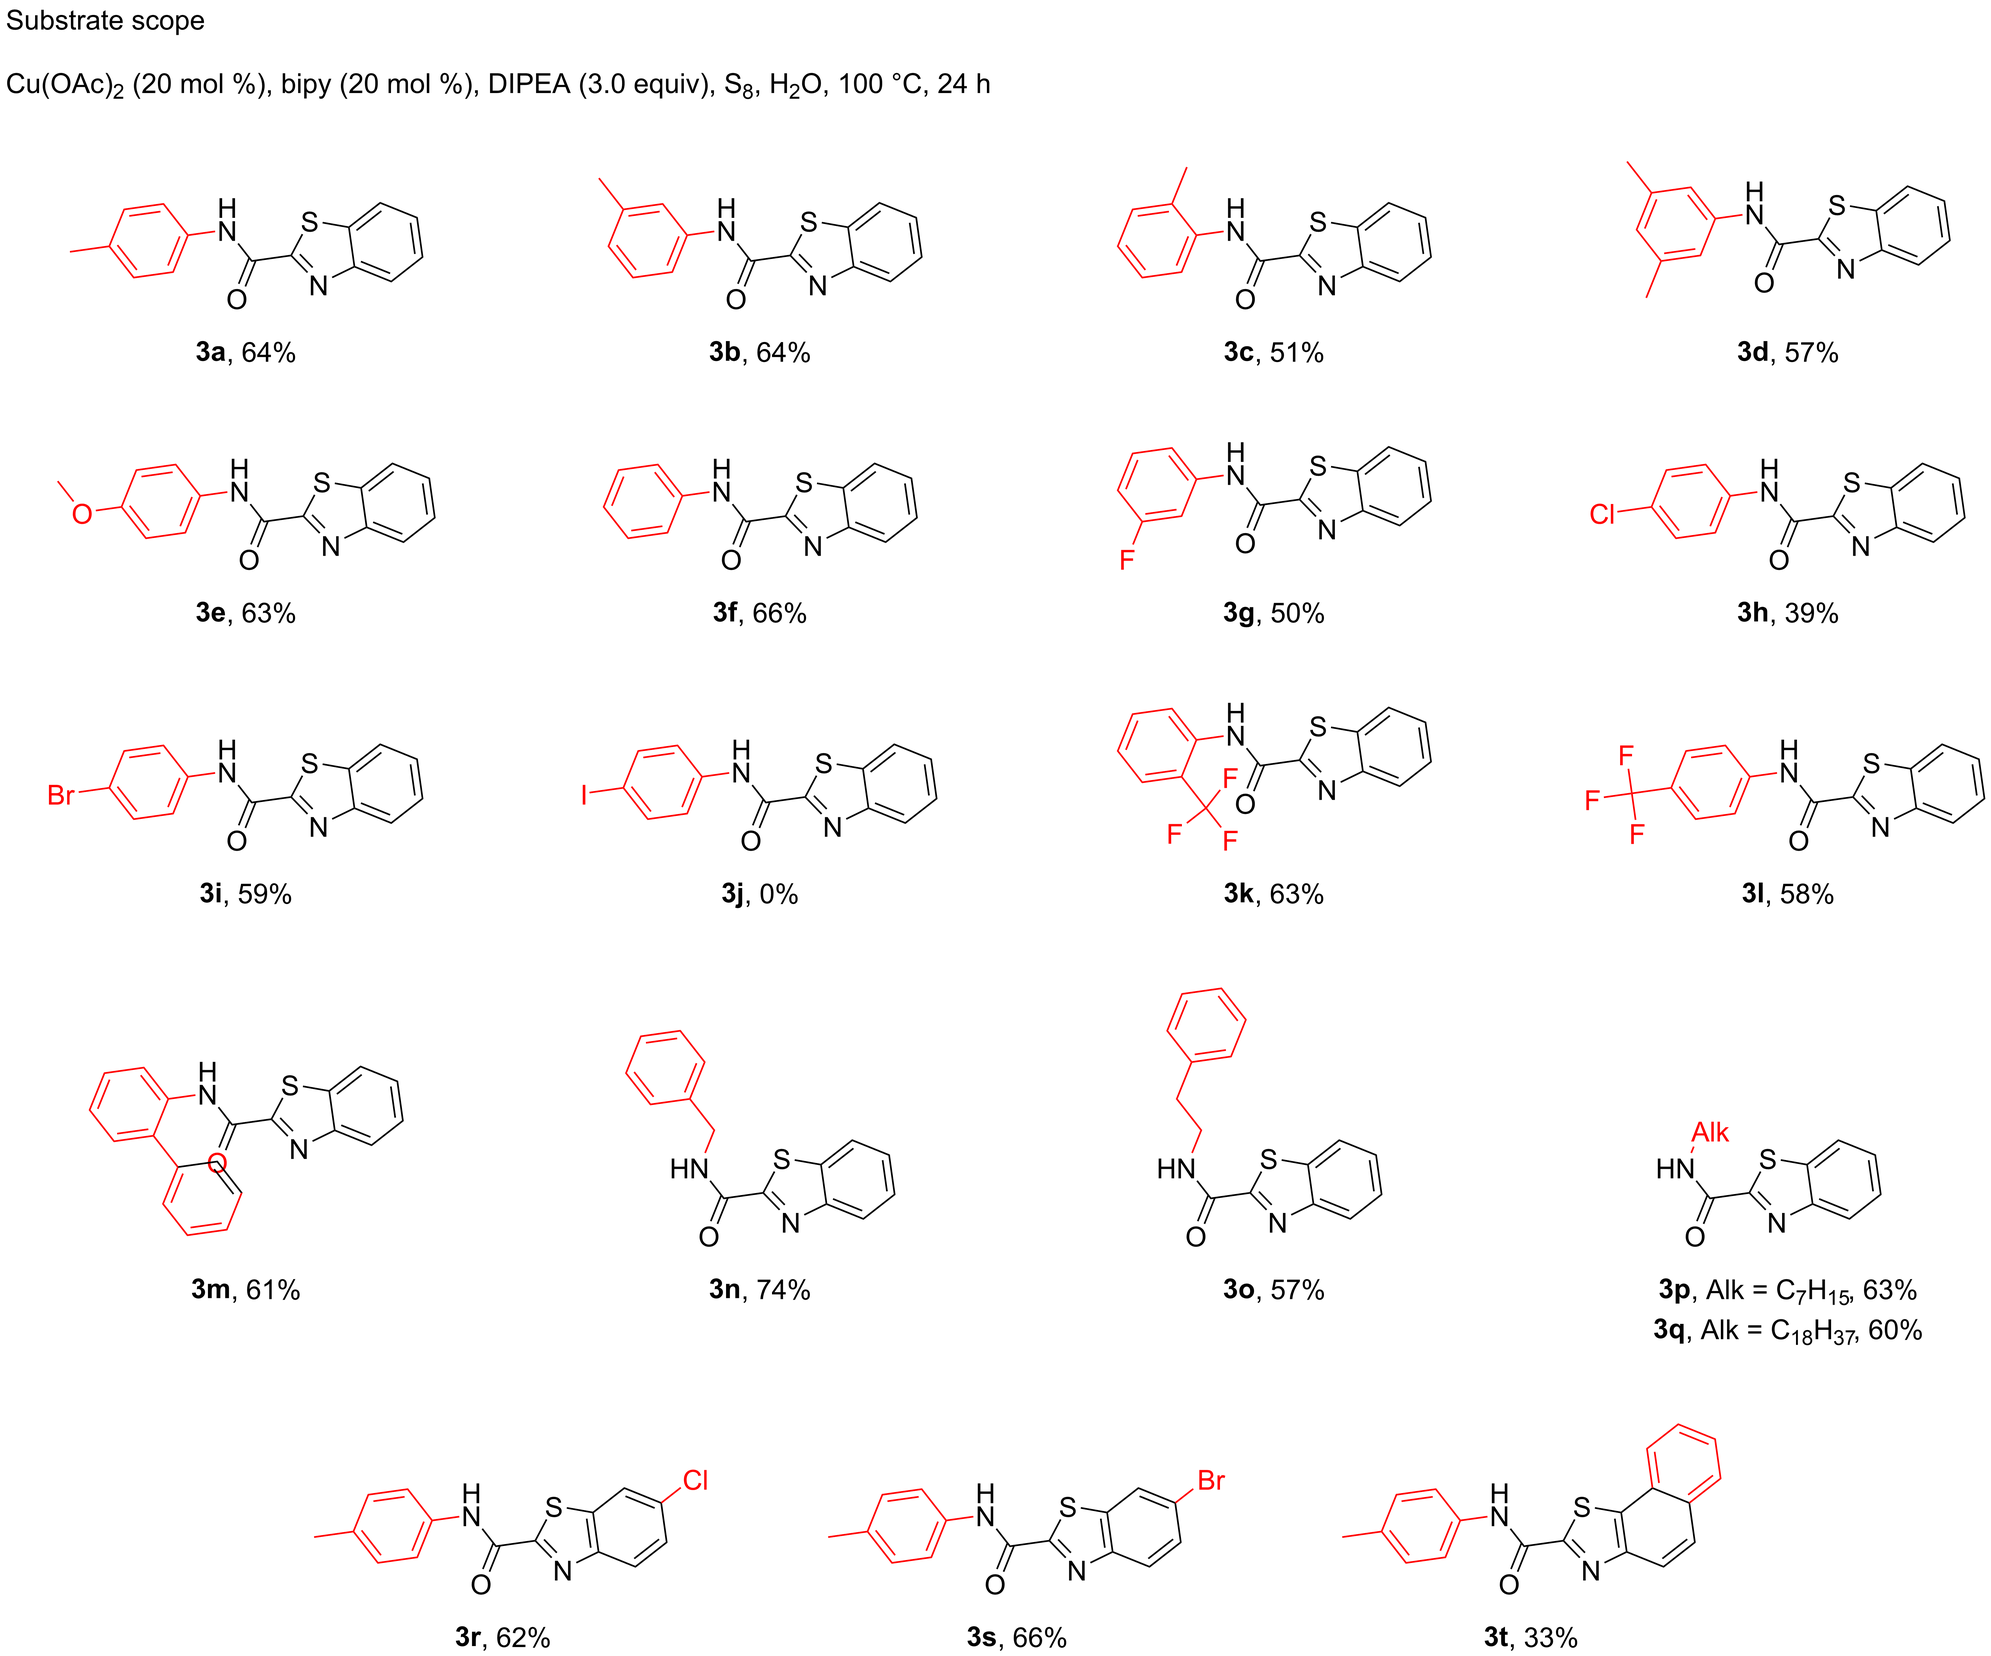
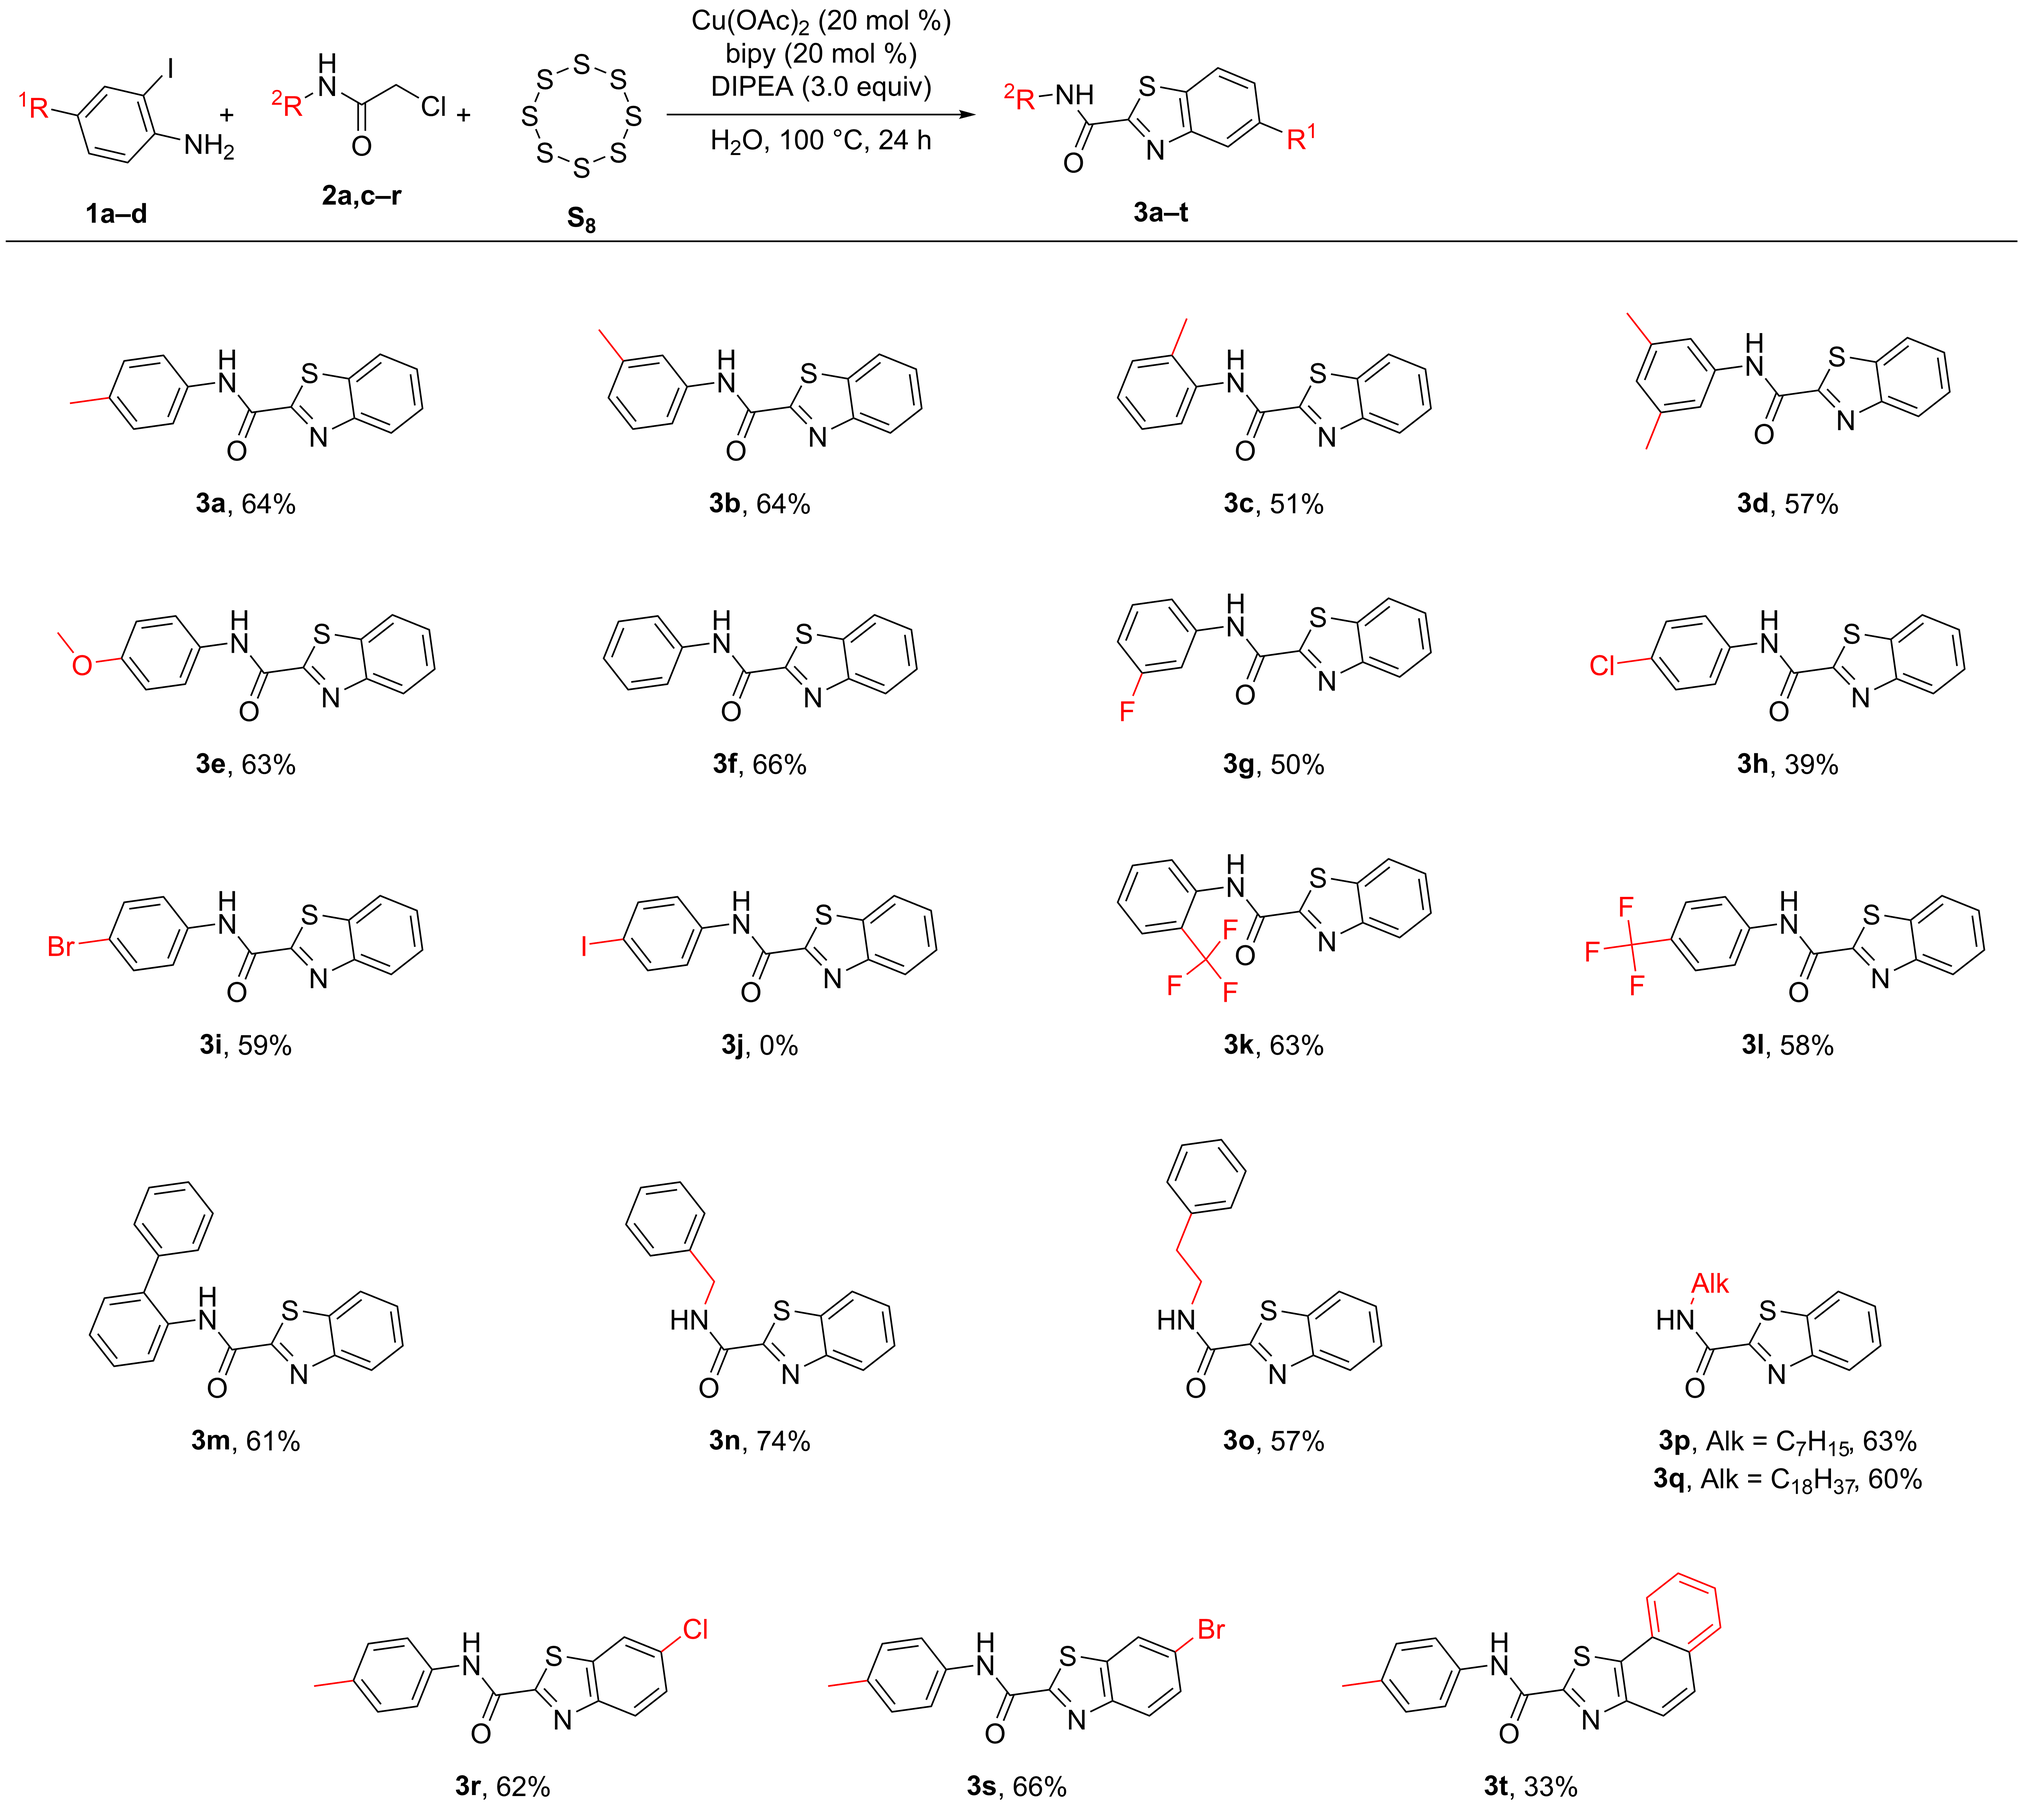
feat(parity): the general scheme in the four-column table names all three reactants
The header carried only the two organic substrates and mentioned S8 in the arrow's condition text.
In the source figure sulfur is a third reactant (6 equiv), drawn with a + of its own, so the brief
now lists it as one and the condition line keeps only DIPEA.

One page, four columns, unchanged.

diff --git a/add_s8.py b/add_s8.py
@@ -1,0 +1,11 @@
+import io,sys,json
+sys.stdout=io.TextIOWrapper(sys.stdout.buffer,encoding="utf-8")
+p=r"assets/parity/p22-four-columns-wide.json"
+d=json.load(open(p,encoding="utf-8"))
+h=d["header"]
+h["substrates"]=[h["substrates"][0], h["substrates"][1],
+                 {"smiles":"S1SSSSSSS1","label":"S8"}]
+h["above"]=[t for t in h["above"] if "S8" not in t and "S₈" not in t]
+h.setdefault("above",[]).append("DIPEA (3.0 equiv)")
+json.dump(d,open(p,"w",encoding="utf-8"),ensure_ascii=False,indent=1)
+print("表头反应物:",[s.get("label") for s in h["substrates"]],"| 条件:",h["above"],h["below"])
